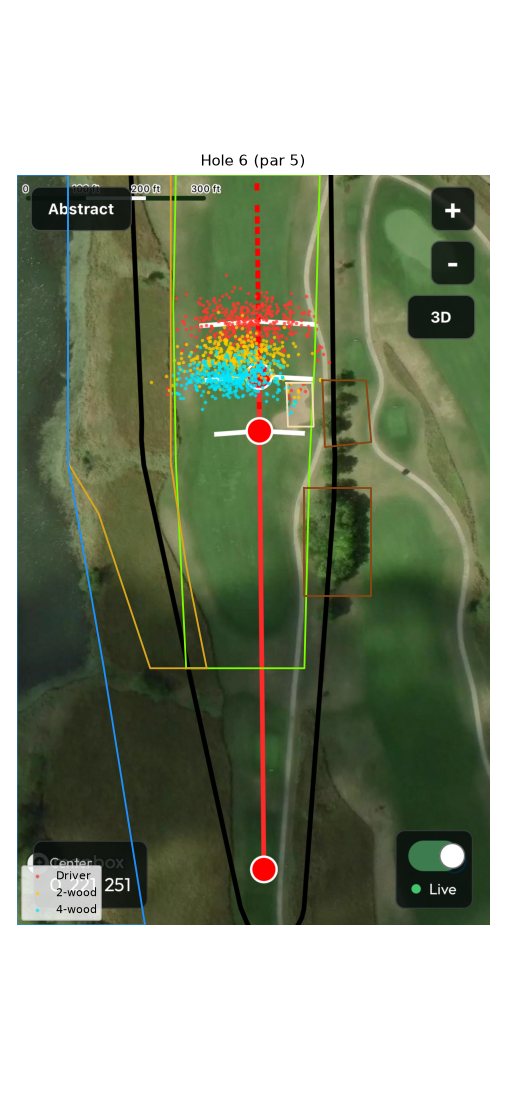
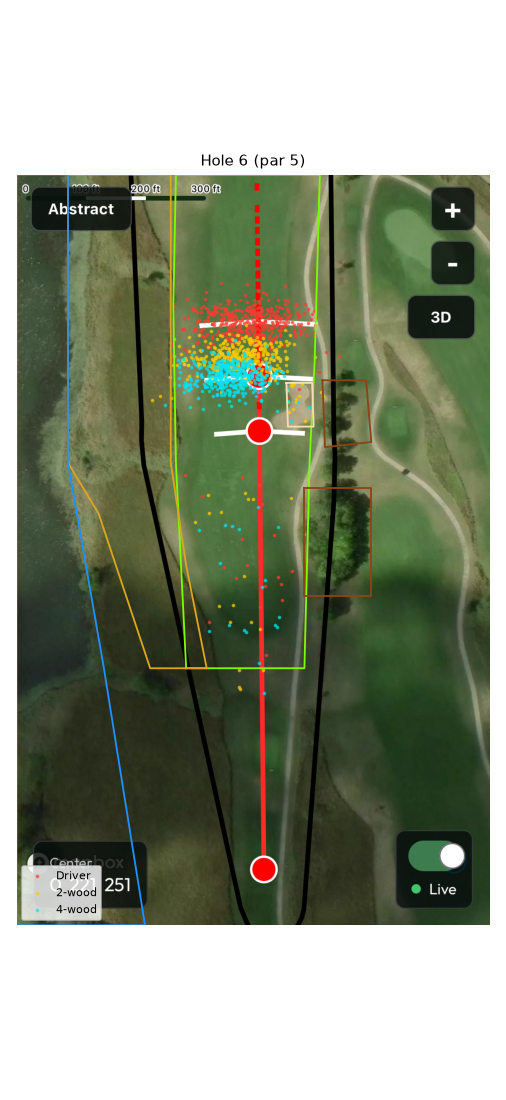
Model mishits; add hole 17 tall grass, lower fairway and iron lay-up options
Thin/topped shots (5% woods, 3% irons by default) carry 35-75% of normal
and can find hazards short of the landing zone. Holes can offer irons;
hole 17 does, with a wider aim search for the right-side lay-up fairway.

Claude-Session: https://claude.ai/code/session_011rKvZuUcU769YfPfktPsds

Changed region(s): [[0.3261, 0.2473, 0.6225, 0.3709], [0.6225, 0.3091, 0.6522, 0.34]]

diff --git a/mozingo/tee_strategy.py b/mozingo/tee_strategy.py
@@ -27,7 +27,8 @@ RNG = np.random.default_rng(7)
 N_SHOTS = 20000
 # Common random numbers: every club/aim reuses the same standard-normal draws,
 # so club-vs-club differences aren't swamped by simulation noise.
-Z = np.random.default_rng(11).standard_normal((2, N_SHOTS))
+_r = np.random.default_rng(11)
+Z = np.vstack([_r.standard_normal((2, N_SHOTS)), _r.random((2, N_SHOTS))])
 
 # name: (carry yds, total yds on fairway, lateral 95% width, carry-depth 95% window)
 CLUBS = {
@@ -37,6 +38,15 @@ CLUBS = {
 }
 TREE_SEVERITY = 1.0  # 1 = blocked (recovery baseline), 0 = trees play like rough
 NATIVE_LOST = 0.5    # share of balls in native grass that are lost (penalty)
+# Irons, only offered on holes that list irons=True.
+IRONS = {
+    "Long iron": (210, 220, 40, 20),
+    "Mid iron": (185, 192, 34, 18),
+}
+# Mishits (thin / topped / heel) that fall outside the normal shot pattern:
+# chance per swing, and they carry MISHIT_CARRY of the normal carry.
+MISHIT_RATE = {"Driver": 0.05, "2-wood": 0.05, "4-wood": 0.05, "Long iron": 0.03, "Mid iron": 0.03}
+MISHIT_CARRY = (0.35, 0.75)
 ROUGH_ROLL = 0.3    # share of remaining roll kept once the ball is in rough
 HAZARDS = ("sand", "recovery", "native", "water")   # ball stops where it lands/enters
 
@@ -229,15 +239,20 @@ HOLES = {
             ("water", [(720, 900), (920, 900), (920, 1800), (600, 1800), (625, 1300), (650, 1000)]),
         ]),
     17: dict(
-        par=4, image="hole17.png", length=344,
+        par=4, image="hole17.png", length=344, irons=True,
         tee=(433, 1895), dot270=(411, 1003), green=(425, 760),
         zones=[
             ("fairway", [(250, 1250), (560, 1250), (560, 1100), (470, 950), (480, 800), (400, 700),
                          (260, 800), (220, 1000)]),
             ("recovery", [(0, 950), (170, 950), (150, 1200), (190, 1400), (0, 1400)]),     # trees left
             ("recovery", [(300, 670), (360, 670), (360, 720), (300, 720)]),
+            ("fairway", [(440, 1460), (700, 1460), (720, 1250), (660, 1100), (560, 1050),
+                         (470, 1100), (440, 1250)]),                             # lower fairway (180-230 lay-up)
             ("native", [(540, 700), (620, 700), (720, 1100), (740, 1250), (600, 1250), (560, 1100)]),
             ("native", [(0, 600), (200, 600), (180, 820), (150, 950), (0, 950)]),
+            ("native", [(200, 1230), (400, 1230), (430, 1380), (470, 1400), (560, 1460), (720, 1470),
+                        (760, 1520), (700, 1650), (560, 1640), (470, 1620), (420, 1560), (320, 1480),
+                        (250, 1480)]),                                           # creek + tall grass 90-160 yds
             ("sand", [(422, 828), (447, 828), (447, 872), (422, 872)]),                   # short-right of green
         ]),
     18: dict(
@@ -271,6 +286,10 @@ def hole_frame(h):
     return tee, fwd, right, px_per_yd
 
 
+def clubs_for(hole_no):
+    return list(CLUBS) + (list(IRONS) if HOLES[hole_no].get("irons") else [])
+
+
 def lie_at(h, pts):
     lie = np.array(["rough"] * len(pts), dtype=object)
     for name, poly in h["zones"]:
@@ -281,11 +300,14 @@ def lie_at(h, pts):
 def simulate(hole_no, club, aim_lat=0.0, n=N_SHOTS, z=None):
     h = HOLES[hole_no]
     tee, fwd, right, ppy = hole_frame(h)
-    carry, total, width, depth = CLUBS[club]
+    carry, total, width, depth = {**CLUBS, **IRONS}[club]
     if z is None:
-        z = Z if n == N_SHOTS else RNG.standard_normal((2, n))
+        z = Z if n == N_SHOTS else np.vstack([RNG.standard_normal((2, n)), RNG.random((2, n))])
     n = z.shape[1]
     along = carry + depth / 4 * z[0]
+    mishit = z[2] < MISHIT_RATE.get(club, 0.0)
+    lo, hi = MISHIT_CARRY
+    along[mishit] = carry * (lo + (hi - lo) * z[3][mishit])
     lat = aim_lat + width / 4 * z[1]
     pts = tee + (along[:, None] * fwd + lat[:, None] * right) * ppy
     lie = lie_at(h, pts)
@@ -317,7 +339,11 @@ def simulate(hole_no, club, aim_lat=0.0, n=N_SHOTS, z=None):
     return pts, lie, to_green, 1.0 + strokes   # +1 for the tee shot itself
 
 
-def best_aim(hole_no, club, aims=np.arange(-20, 20.1, 2.5), z=None):
+AIMS = np.arange(-20, 20.1, 2.5)
+AIMS_WIDE = np.arange(-20, 50.1, 2.5)   # irons can lay up to a different part of the hole
+
+
+def best_aim(hole_no, club, aims=AIMS, z=None):
     best = None
     for aim in aims:
         _, lie, to_green, strokes = simulate(hole_no, club, aim, z=z)
@@ -345,7 +371,7 @@ def plot_hole(hole_no, results, out_path):
     for name, poly in h["zones"]:
         p = np.array(poly + [poly[0]])
         ax.plot(p[:, 0], p[:, 1], color=colors[name], lw=1.2)
-    for club, c in zip(CLUBS, ("#ff3b30", "#ffcc00", "#00e5ff")):
+    for club, c in zip(clubs_for(hole_no), ("#ff3b30", "#ffcc00", "#00e5ff", "#ff00ff", "#ffffff")):
         pts, *_ = simulate(hole_no, club, results[club]["aim"], n=400)
         ax.scatter(pts[:, 0], pts[:, 1], s=2, color=c, alpha=0.6, label=club)
     ax.set_xlim(0, 920)
@@ -365,7 +391,8 @@ def main():
              "|---|---|---|---|---|---|---|---|---|---|---|---|---|"]
     picks = []
     for hole_no, h in HOLES.items():
-        results = {club: best_aim(hole_no, club) for club in CLUBS}
+        results = {club: best_aim(hole_no, club, aims=AIMS_WIDE if club in IRONS else AIMS)
+                   for club in clubs_for(hole_no)}
         best_ev = min(r["ev"] for r in results.values())
         best_club = min(results, key=lambda c: results[c]["ev"])
         picks.append((hole_no, best_club, results[best_club]["aim"]))

diff --git a/mozingo/stats.py b/mozingo/stats.py
@@ -23,7 +23,8 @@ LIE_NAME = {"recovery": "trees"}
 
 
 def sg_table(hole_no):
-    res = {c: t.best_aim(hole_no, c) for c in t.CLUBS}
+    res = {c: t.best_aim(hole_no, c, aims=t.AIMS_WIDE if c in t.IRONS else t.AIMS)
+           for c in t.clubs_for(hole_no)}
     best = min(res, key=lambda c: res[c]["ev"])
     base = t.tee_baseline(hole_no)
     rows = []
@@ -36,34 +37,42 @@ def sg_table(hole_no):
     return best, rows
 
 
-def perturbed_world(rng, holes0, clubs0):
+def perturbed_world(rng, holes0, clubs0, irons0):
     """One plausible version of reality around the measured inputs."""
     spread = rng.uniform(0.9, 1.3)                       # dispersion usually worse than the app's
-    clubs = {}
-    for c, (carry, total, w, d) in clubs0.items():
-        dc = rng.normal(0, 5)
-        roll = (total - carry) * rng.uniform(0.6, 1.3)
-        clubs[c] = (carry + dc, carry + dc + roll, w * spread, d * rng.uniform(0.9, 1.2))
+    roll_f = rng.uniform(0.6, 1.3)
+
+    def jiggle(table):
+        out = {}
+        for c, (carry, total, w, d) in table.items():
+            dc = rng.normal(0, 5)
+            out[c] = (carry + dc, carry + dc + (total - carry) * roll_f, w * spread, d * rng.uniform(0.9, 1.2))
+        return out
+    clubs, irons = jiggle(clubs0), jiggle(irons0)
     holes = copy.deepcopy(holes0)
     for h in holes.values():
         ppy = t.hole_frame(h)[3]
         h["zones"] = [(name, [(x + dx, y + dy) for x, y in poly])
                       for name, poly in h["zones"]
                       for dx, dy in [rng.normal(0, 4 * ppy, 2)]]  # each zone off by ~4 yds
-    return clubs, holes, rng.uniform(0.4, 1.0), rng.uniform(0.3, 0.7)
+    return clubs, irons, holes, rng.uniform(0.4, 1.0), rng.uniform(0.3, 0.7)
 
 
 def robustness(rng):
-    holes0, clubs0 = copy.deepcopy(t.HOLES), dict(t.CLUBS)
-    sev0, lost0 = t.TREE_SEVERITY, t.NATIVE_LOST
-    wins = {h: {c: 0 for c in clubs0} for h in holes0}
+    holes0, clubs0, irons0 = copy.deepcopy(t.HOLES), dict(t.CLUBS), dict(t.IRONS)
+    sev0, lost0, mis0 = t.TREE_SEVERITY, t.NATIVE_LOST, dict(t.MISHIT_RATE)
+    wins = {h: {c: 0 for c in t.clubs_for(h)} for h in holes0}
     for _ in range(N_SCEN):
-        t.CLUBS, t.HOLES, t.TREE_SEVERITY, t.NATIVE_LOST = perturbed_world(rng, holes0, clubs0)
-        z = rng.standard_normal((2, SCEN_SHOTS))
+        t.CLUBS, t.IRONS, t.HOLES, t.TREE_SEVERITY, t.NATIVE_LOST = perturbed_world(rng, holes0, clubs0, irons0)
+        f = rng.uniform(0.4, 2.0)                              # mishit rate anywhere from 2% to 10%
+        t.MISHIT_RATE = {c: r * f for c, r in mis0.items()}
+        z = np.vstack([rng.standard_normal((2, SCEN_SHOTS)), rng.random((2, SCEN_SHOTS))])
         for h in holes0:
-            evs = {c: t.best_aim(h, c, aims=np.arange(-15, 15.1, 5), z=z)["ev"] for c in clubs0}
+            evs = {c: t.best_aim(h, c, aims=np.arange(-15, 40.1 if c in irons0 else 15.1, 5), z=z)["ev"]
+                   for c in t.clubs_for(h)}
             wins[h][min(evs, key=evs.get)] += 1
-    t.CLUBS, t.HOLES, t.TREE_SEVERITY, t.NATIVE_LOST = clubs0, holes0, sev0, lost0
+    t.CLUBS, t.IRONS, t.HOLES, t.TREE_SEVERITY, t.NATIVE_LOST = clubs0, irons0, holes0, sev0, lost0
+    t.MISHIT_RATE = mis0
     return wins
 
 

diff --git a/mozingo/output/results_table.md b/mozingo/output/results_table.md
@@ -1,44 +1,46 @@
 | Hole | Par | Club | Aim (yds, +R) | Approach left | Fairway | Rough | Sand | Trees | Native | Water | Exp. score | vs best |
 |---|---|---|---|---|---|---|---|---|---|---|---|---|
-| 1 | 4 | Driver | +2.5 | 75 | 76% | 16% | 0% | 8% | 0% | 0% | 3.852 | +0.031 |
-| 1 | 4 | 2-wood | +2.5 | 93 | 87% | 11% | 0% | 2% | 0% | 0% | 3.830 | +0.008 |
-| 1 | 4 | 4-wood **<- play** | +2.5 | 103 | 94% | 6% | 0% | 0% | 0% | 0% | 3.822 | +0.000 |
-| 2 | 4 | Driver | -10.0 | 59 | 73% | 10% | 13% | 3% | 1% | 0% | 3.810 | +0.030 |
-| 2 | 4 | 2-wood | -10.0 | 74 | 83% | 6% | 8% | 2% | 1% | 0% | 3.817 | +0.038 |
-| 2 | 4 | 4-wood **<- play** | -5.0 | 81 | 95% | 2% | 2% | 1% | 0% | 0% | 3.780 | +0.000 |
-| 3 | 5 | Driver **<- play** | -12.5 | 219 | 89% | 9% | 0% | 2% | 0% | 0% | 4.344 | +0.000 |
-| 3 | 5 | 2-wood | -15.0 | 238 | 94% | 4% | 0% | 1% | 0% | 0% | 4.454 | +0.110 |
-| 3 | 5 | 4-wood | -17.5 | 248 | 98% | 2% | 0% | 0% | 0% | 0% | 4.507 | +0.163 |
-| 4 | 4 | Driver **<- play** | +0.0 | 63 | 89% | 11% | 0% | 0% | 0% | 0% | 3.732 | +0.000 |
-| 4 | 4 | 2-wood | +0.0 | 83 | 92% | 8% | 0% | 0% | 0% | 0% | 3.776 | +0.044 |
-| 4 | 4 | 4-wood | +0.0 | 92 | 96% | 4% | 0% | 0% | 0% | 0% | 3.790 | +0.059 |
-| 6 | 5 | Driver **<- play** | -5.0 | 192 | 96% | 2% | 1% | 0% | 1% | 0% | 4.166 | +0.000 |
-| 6 | 5 | 2-wood | -10.0 | 212 | 96% | 1% | 2% | 0% | 1% | 0% | 4.290 | +0.124 |
-| 6 | 5 | 4-wood | -12.5 | 222 | 98% | 0% | 1% | 0% | 0% | 0% | 4.344 | +0.178 |
-| 7 | 4 | Driver | +2.5 | 132 | 74% | 2% | 0% | 24% | 0% | 0% | 4.104 | +0.082 |
-| 7 | 4 | 2-wood | +5.0 | 151 | 82% | 2% | 0% | 15% | 0% | 0% | 4.082 | +0.060 |
-| 7 | 4 | 4-wood **<- play** | +7.5 | 159 | 94% | 2% | 0% | 4% | 0% | 0% | 4.022 | +0.000 |
-| 9 | 4 | Driver **<- play** | +2.5 | 52 | 92% | 6% | 0% | 0% | 2% | 0% | 3.700 | +0.000 |
-| 9 | 4 | 2-wood | +5.0 | 71 | 96% | 3% | 0% | 0% | 1% | 0% | 3.744 | +0.044 |
-| 9 | 4 | 4-wood | +5.0 | 80 | 99% | 0% | 0% | 0% | 0% | 0% | 3.754 | +0.054 |
-| 10 | 4 | Driver **<- play** | -5.0 | 91 | 93% | 3% | 0% | 2% | 2% | 0% | 3.826 | +0.000 |
-| 10 | 4 | 2-wood | -7.5 | 111 | 96% | 1% | 0% | 1% | 1% | 0% | 3.858 | +0.032 |
-| 10 | 4 | 4-wood | -7.5 | 120 | 98% | 1% | 0% | 1% | 0% | 0% | 3.864 | +0.037 |
-| 12 | 5 | Driver **<- play** | +0.0 | 228 | 82% | 12% | 5% | 0% | 0% | 0% | 4.423 | +0.000 |
-| 12 | 5 | 2-wood | -10.0 | 246 | 88% | 3% | 10% | 0% | 0% | 0% | 4.540 | +0.117 |
-| 12 | 5 | 4-wood | -12.5 | 255 | 93% | 0% | 7% | 0% | 0% | 0% | 4.574 | +0.151 |
-| 13 | 4 | Driver | +2.5 | 103 | 74% | 22% | 0% | 3% | 0% | 0% | 3.896 | +0.004 |
-| 13 | 4 | 2-wood | +2.5 | 119 | 88% | 10% | 0% | 3% | 0% | 0% | 3.899 | +0.006 |
-| 13 | 4 | 4-wood **<- play** | +2.5 | 127 | 95% | 4% | 0% | 1% | 0% | 0% | 3.893 | +0.000 |
-| 14 | 5 | Driver **<- play** | +5.0 | 164 | 95% | 5% | 0% | 0% | 0% | 0% | 4.016 | +0.000 |
-| 14 | 5 | 2-wood | +2.5 | 184 | 98% | 2% | 0% | 0% | 0% | 0% | 4.108 | +0.092 |
-| 14 | 5 | 4-wood | +2.5 | 193 | 99% | 1% | 0% | 0% | 0% | 0% | 4.157 | +0.141 |
-| 16 | 4 | Driver | -5.0 | 136 | 79% | 9% | 0% | 12% | 0% | 0% | 4.030 | +0.012 |
-| 16 | 4 | 2-wood **<- play** | -7.5 | 155 | 87% | 10% | 0% | 4% | 0% | 0% | 4.018 | +0.000 |
-| 16 | 4 | 4-wood | -10.0 | 164 | 94% | 5% | 0% | 1% | 0% | 0% | 4.025 | +0.008 |
-| 17 | 4 | Driver **<- play** | -10.0 | 49 | 94% | 5% | 1% | 0% | 0% | 0% | 3.659 | +0.000 |
-| 17 | 4 | 2-wood | -10.0 | 67 | 98% | 2% | 0% | 0% | 0% | 0% | 3.722 | +0.064 |
-| 17 | 4 | 4-wood | -5.0 | 75 | 99% | 1% | 0% | 0% | 0% | 0% | 3.740 | +0.082 |
-| 18 | 4 | Driver **<- play** | -15.0 | 101 | 83% | 11% | 0% | 6% | 0% | 0% | 3.888 | +0.000 |
-| 18 | 4 | 2-wood | +0.0 | 128 | 85% | 1% | 0% | 15% | 0% | 0% | 4.008 | +0.120 |
-| 18 | 4 | 4-wood | +5.0 | 138 | 89% | 0% | 0% | 10% | 0% | 0% | 3.997 | +0.109 |
+| 1 | 4 | Driver | +2.5 | 76 | 74% | 19% | 0% | 7% | 0% | 0% | 3.881 | +0.024 |
+| 1 | 4 | 2-wood | +2.5 | 94 | 84% | 14% | 0% | 2% | 0% | 0% | 3.862 | +0.006 |
+| 1 | 4 | 4-wood **<- play** | +2.5 | 103 | 90% | 10% | 0% | 0% | 0% | 0% | 3.857 | +0.000 |
+| 2 | 4 | Driver | -10.0 | 60 | 71% | 13% | 12% | 3% | 1% | 0% | 3.837 | +0.026 |
+| 2 | 4 | 2-wood | -10.0 | 74 | 80% | 10% | 7% | 3% | 0% | 0% | 3.846 | +0.035 |
+| 2 | 4 | 4-wood **<- play** | -5.0 | 82 | 91% | 6% | 2% | 1% | 0% | 0% | 3.811 | +0.000 |
+| 3 | 5 | Driver **<- play** | -12.5 | 219 | 89% | 9% | 0% | 2% | 0% | 0% | 4.368 | +0.000 |
+| 3 | 5 | 2-wood | -17.5 | 239 | 94% | 5% | 0% | 1% | 0% | 0% | 4.472 | +0.103 |
+| 3 | 5 | 4-wood | -17.5 | 248 | 97% | 3% | 0% | 0% | 0% | 0% | 4.522 | +0.154 |
+| 4 | 4 | Driver **<- play** | +0.0 | 64 | 86% | 14% | 0% | 0% | 0% | 0% | 3.764 | +0.000 |
+| 4 | 4 | 2-wood | +0.0 | 83 | 88% | 11% | 0% | 0% | 0% | 0% | 3.810 | +0.045 |
+| 4 | 4 | 4-wood | +0.0 | 92 | 92% | 8% | 0% | 0% | 0% | 0% | 3.824 | +0.060 |
+| 6 | 5 | Driver **<- play** | -5.0 | 193 | 96% | 2% | 1% | 0% | 1% | 0% | 4.197 | +0.000 |
+| 6 | 5 | 2-wood | -10.0 | 213 | 95% | 2% | 2% | 0% | 1% | 0% | 4.316 | +0.120 |
+| 6 | 5 | 4-wood | -12.5 | 223 | 97% | 1% | 1% | 0% | 0% | 0% | 4.367 | +0.171 |
+| 7 | 4 | Driver | +2.5 | 133 | 74% | 3% | 0% | 23% | 0% | 0% | 4.128 | +0.073 |
+| 7 | 4 | 2-wood | +5.0 | 151 | 81% | 4% | 0% | 15% | 0% | 0% | 4.111 | +0.056 |
+| 7 | 4 | 4-wood **<- play** | +7.5 | 160 | 92% | 4% | 0% | 4% | 0% | 0% | 4.055 | +0.000 |
+| 9 | 4 | Driver **<- play** | +2.5 | 53 | 89% | 8% | 0% | 0% | 2% | 1% | 3.743 | +0.000 |
+| 9 | 4 | 2-wood | +5.0 | 71 | 93% | 5% | 0% | 0% | 1% | 1% | 3.790 | +0.047 |
+| 9 | 4 | 4-wood | +5.0 | 81 | 95% | 3% | 0% | 0% | 0% | 2% | 3.802 | +0.059 |
+| 10 | 4 | Driver **<- play** | -5.0 | 92 | 92% | 4% | 0% | 2% | 2% | 0% | 3.855 | +0.000 |
+| 10 | 4 | 2-wood | -7.5 | 111 | 94% | 3% | 0% | 1% | 1% | 0% | 3.889 | +0.033 |
+| 10 | 4 | 4-wood | -7.5 | 120 | 97% | 2% | 0% | 1% | 0% | 0% | 3.895 | +0.040 |
+| 12 | 5 | Driver **<- play** | +0.0 | 229 | 79% | 16% | 5% | 0% | 0% | 0% | 4.446 | +0.000 |
+| 12 | 5 | 2-wood | -10.0 | 247 | 84% | 7% | 9% | 0% | 0% | 0% | 4.557 | +0.112 |
+| 12 | 5 | 4-wood | -12.5 | 255 | 89% | 5% | 6% | 0% | 0% | 0% | 4.590 | +0.145 |
+| 13 | 4 | Driver **<- play** | +2.5 | 104 | 75% | 22% | 0% | 3% | 0% | 0% | 3.921 | +0.000 |
+| 13 | 4 | 2-wood | +2.5 | 120 | 87% | 10% | 0% | 3% | 0% | 0% | 3.927 | +0.006 |
+| 13 | 4 | 4-wood | +2.5 | 128 | 94% | 5% | 0% | 1% | 0% | 0% | 3.922 | +0.001 |
+| 14 | 5 | Driver **<- play** | +5.0 | 164 | 93% | 7% | 0% | 0% | 0% | 0% | 4.051 | +0.000 |
+| 14 | 5 | 2-wood | +2.5 | 184 | 95% | 5% | 0% | 0% | 0% | 0% | 4.141 | +0.090 |
+| 14 | 5 | 4-wood | +2.5 | 194 | 97% | 3% | 0% | 0% | 0% | 0% | 4.189 | +0.137 |
+| 16 | 4 | Driver | -5.0 | 137 | 78% | 10% | 0% | 12% | 0% | 0% | 4.061 | +0.010 |
+| 16 | 4 | 2-wood **<- play** | -7.5 | 155 | 86% | 11% | 0% | 3% | 0% | 0% | 4.051 | +0.000 |
+| 16 | 4 | 4-wood | -10.0 | 165 | 92% | 7% | 0% | 1% | 0% | 0% | 4.059 | +0.008 |
+| 17 | 4 | Driver **<- play** | -7.5 | 49 | 89% | 7% | 1% | 0% | 4% | 0% | 3.720 | +0.000 |
+| 17 | 4 | 2-wood | -7.5 | 67 | 92% | 4% | 0% | 0% | 4% | 0% | 3.784 | +0.064 |
+| 17 | 4 | 4-wood | -2.5 | 75 | 94% | 2% | 0% | 0% | 4% | 0% | 3.801 | +0.081 |
+| 17 | 4 | Long iron | +15.0 | 124 | 97% | 0% | 0% | 0% | 3% | 0% | 3.902 | +0.182 |
+| 17 | 4 | Mid iron | +27.5 | 154 | 96% | 1% | 0% | 0% | 2% | 0% | 3.997 | +0.277 |
+| 18 | 4 | Driver **<- play** | -15.0 | 102 | 83% | 11% | 0% | 6% | 0% | 0% | 3.913 | +0.000 |
+| 18 | 4 | 2-wood | +0.0 | 129 | 85% | 1% | 0% | 14% | 0% | 0% | 4.030 | +0.117 |
+| 18 | 4 | 4-wood | +5.0 | 138 | 89% | 1% | 0% | 10% | 0% | 0% | 4.023 | +0.110 |
